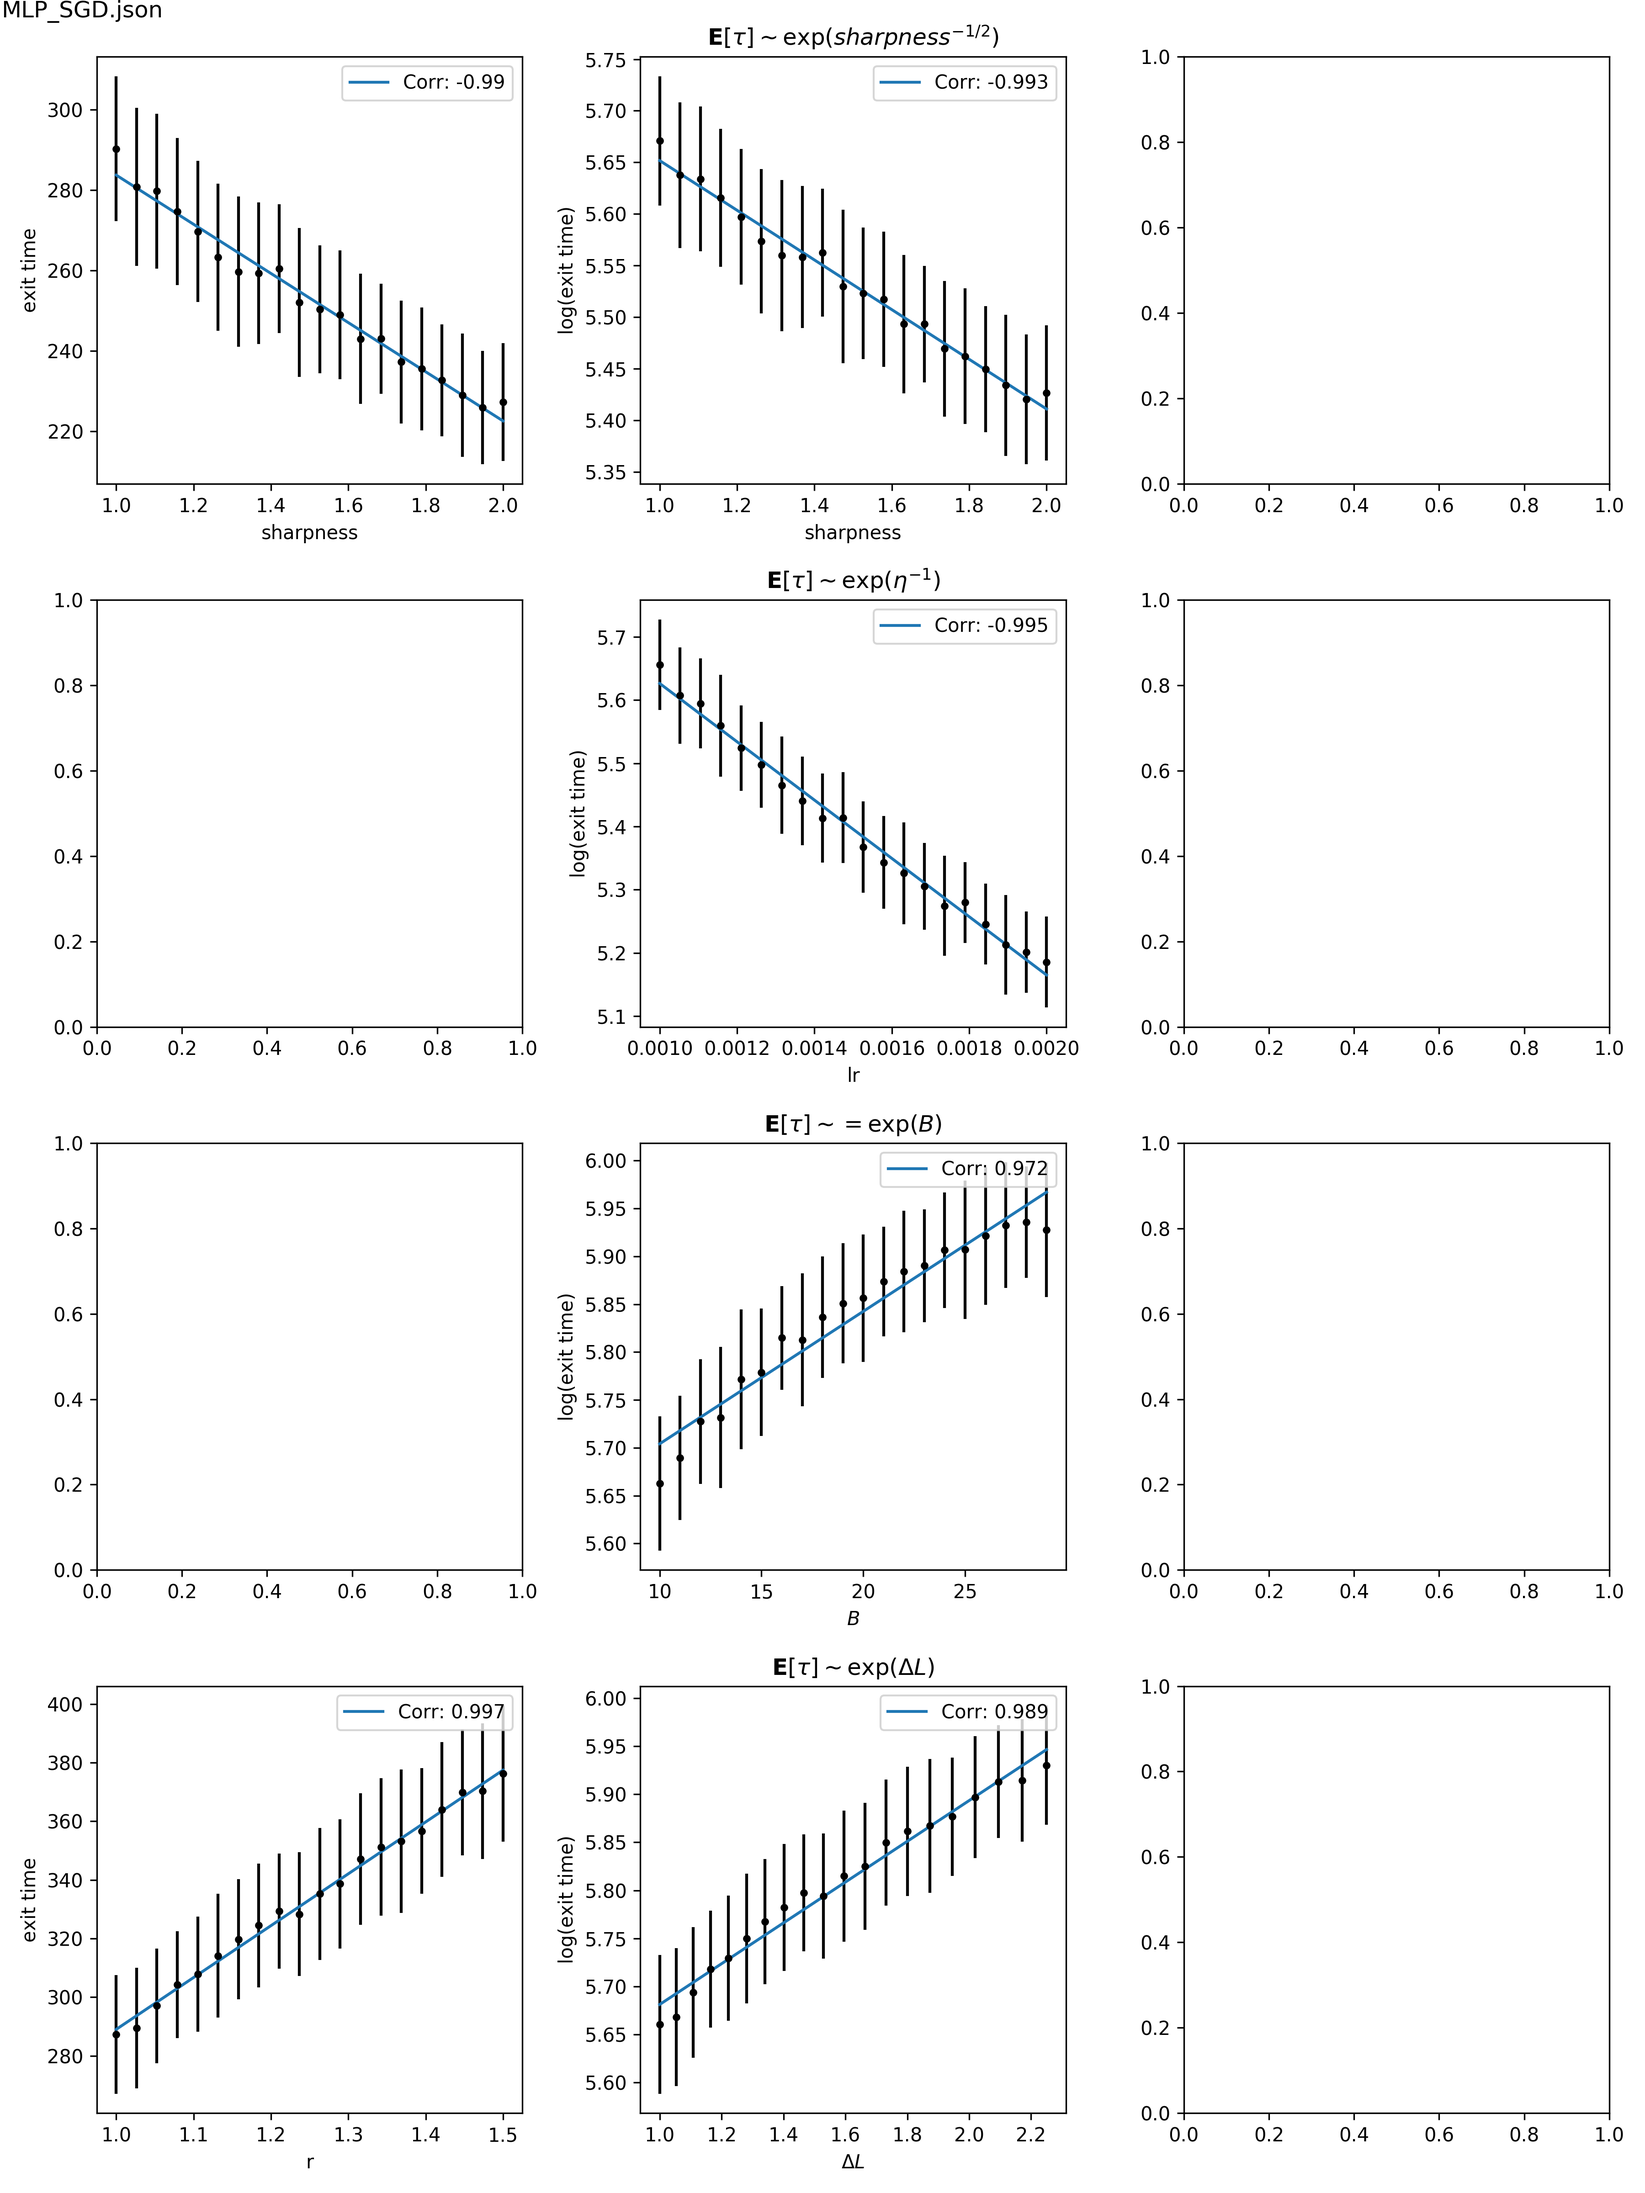
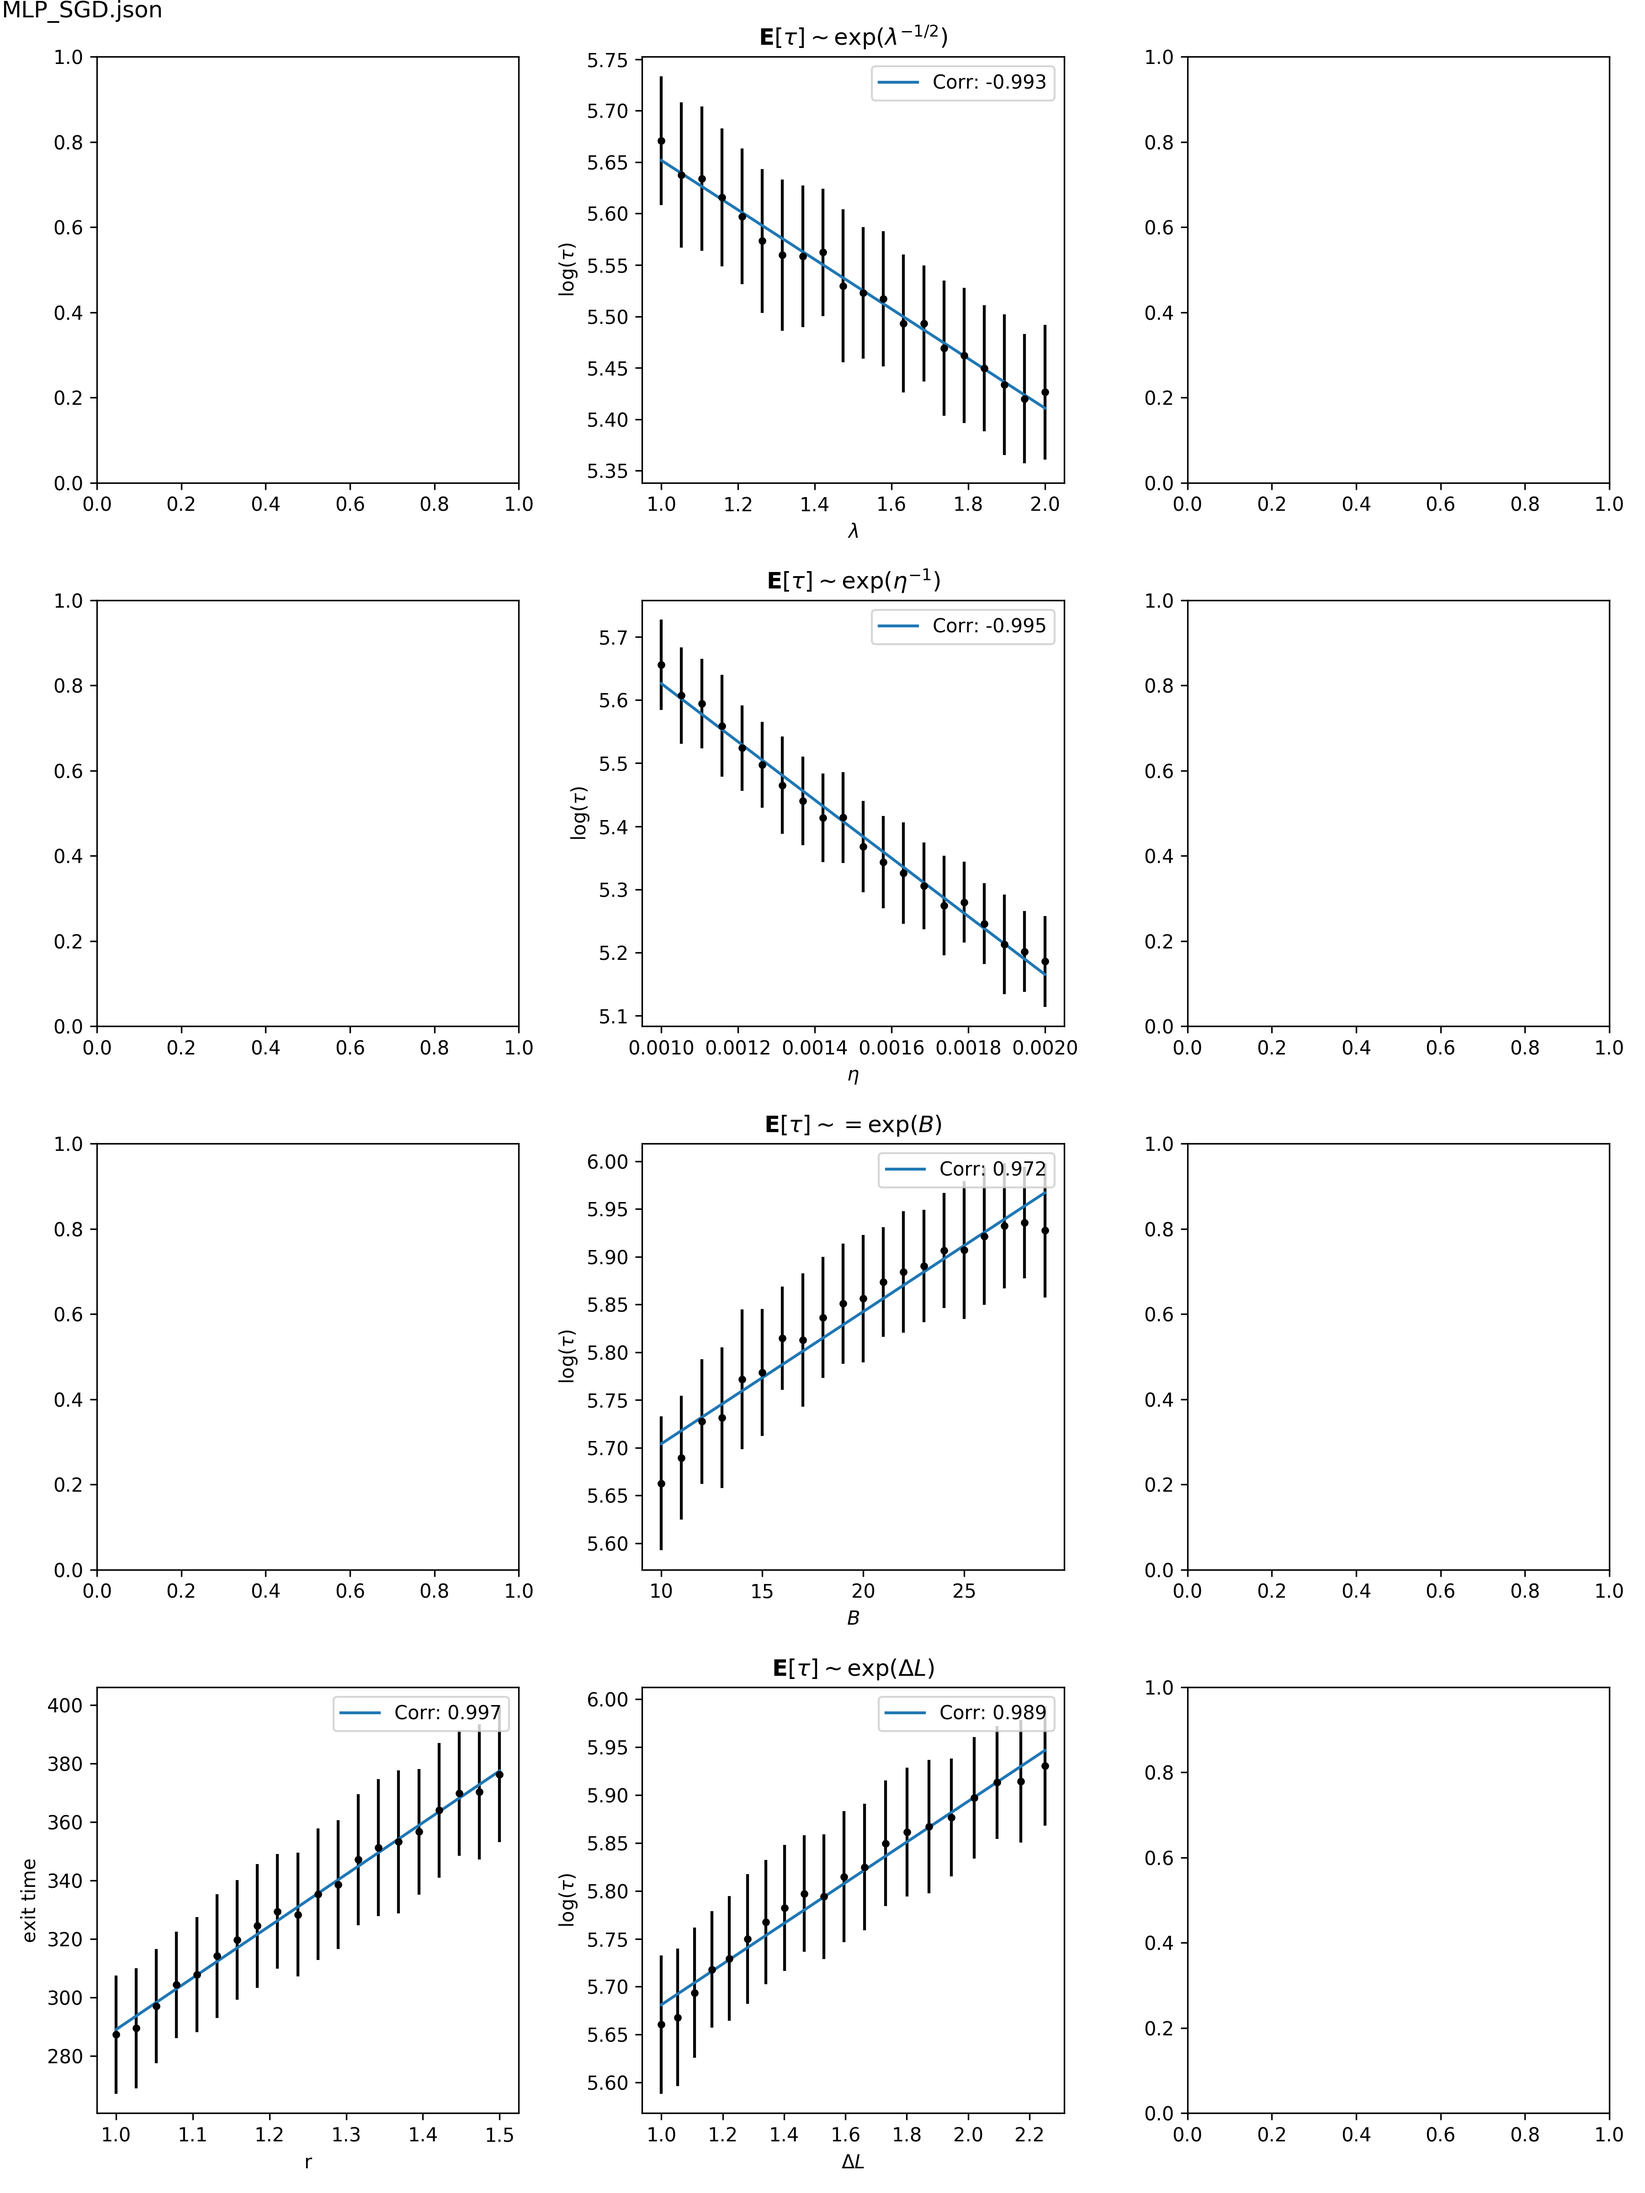
update

diff --git a/draw.py b/draw.py
@@ -8,16 +8,16 @@ def draw(config_fn, sharpness_results, lr_results, batch_size_results, r_results
     # Sharpness 
     (x, y, std, log_std, _) = sharpness_results
     y += 0.00001
-    coeff, _ = stats.pearsonr(x, y)
-    A = np.vstack([x, np.ones(len(x))]).T
-    m, c = np.linalg.lstsq(A, y, rcond=None)[0]
-    #
-    ax1[0].set_xlabel("sharpness")
-    ax1[0].set_ylabel("exit time")
-    ax1[0].errorbar(x, y, yerr=std, fmt='.k') 
-    ax1[0].plot(x, m*x + c) 
-    # ax1[0].set_ylim(bottom=0, top=None)
-    ax1[0].legend([f'Corr: {coeff:.3g}'])
+    # coeff, _ = stats.pearsonr(x, y)
+    # A = np.vstack([x, np.ones(len(x))]).T
+    # m, c = np.linalg.lstsq(A, y, rcond=None)[0]
+    # #
+    # ax1[0].set_xlabel("sharpness")
+    # ax1[0].set_ylabel("exit time")
+    # ax1[0].errorbar(x, y, yerr=std, fmt='.k') 
+    # ax1[0].plot(x, m*x + c) 
+    # # ax1[0].set_ylim(bottom=0, top=None)
+    # ax1[0].legend([f'Corr: {coeff:.3g}'])
     # Log
     #
     x_2 = x
@@ -25,13 +25,12 @@ def draw(config_fn, sharpness_results, lr_results, batch_size_results, r_results
     coeff_2, _ = stats.pearsonr(x_2, y_2)
     A = np.vstack([x_2, np.ones(len(x_2))]).T
     m_2, c_2 = np.linalg.lstsq(A, y_2, rcond=None)[0]
-    ax1[1].set_xlabel("sharpness")
-    ax1[1].set_ylabel("log(exit time)")
+    ax1[1].set_xlabel("$\lambda$")
+    ax1[1].set_ylabel("$\log(\\tau)$")
     ax1[1].errorbar(x_2, y_2, yerr=log_std, fmt='.k') 
     ax1[1].plot(x_2, m_2*x_2 + c_2)
-    # ax1[1].set_ylim(bottom=0, top=None)
     ax1[1].legend([f'Corr: {coeff_2:.3g}'])
-    ax1[1].set_title('$\mathbf{E}[\\tau]\sim \exp(sharpness^{-1/2})$')
+    ax1[1].set_title('$\mathbf{E}[\\tau]\sim \exp(\lambda^{-1/2})$')
     ###
     # Learning rate
     (x, y, std, log_std, _) = lr_results
@@ -40,8 +39,8 @@ def draw(config_fn, sharpness_results, lr_results, batch_size_results, r_results
     coeff_2, _ = stats.pearsonr(x_2, y_2)
     A = np.vstack([x_2, np.ones(len(x))]).T
     m_2, c_2 = np.linalg.lstsq(A, y_2, rcond=None)[0]
-    ax2[1].set_xlabel("lr")
-    ax2[1].set_ylabel("log(exit time)")
+    ax2[1].set_xlabel("$\eta$")
+    ax2[1].set_ylabel("$\log(\\tau)$")
     ax2[1].errorbar(x_2, y_2, yerr=log_std, fmt='.k') 
     ax2[1].plot(x_2, m_2*x_2 + c_2)
     # ax2[1].set_ylim(bottom=0, top=None)
@@ -67,7 +66,7 @@ def draw(config_fn, sharpness_results, lr_results, batch_size_results, r_results
     A = np.vstack([x_2, np.ones(len(x))]).T
     m_2, c_2 = np.linalg.lstsq(A, y_2, rcond=None)[0]
     ax3[1].set_xlabel("$B$")
-    ax3[1].set_ylabel("log(exit time)")
+    ax3[1].set_ylabel("$\log(\\tau)$")
     ax3[1].errorbar(x_2, y_2, yerr=log_std, fmt='.k') 
     ax3[1].plot(x_2, m_2*x_2 + c_2)
     # ax3[1].set_ylim(bottom=0, top=None)
@@ -93,7 +92,7 @@ def draw(config_fn, sharpness_results, lr_results, batch_size_results, r_results
     A = np.vstack([x_2, np.ones(len(x))]).T
     m_2, c_2 = np.linalg.lstsq(A, y_2, rcond=None)[0]
     ax4[1].set_xlabel("$\Delta L$")
-    ax4[1].set_ylabel("log(exit time)")
+    ax4[1].set_ylabel("$\log(\\tau)$")
     ax4[1].errorbar(x_2, y_2, yerr=log_std, fmt='.k') 
     ax4[1].plot(x_2, m_2*x_2 + c_2)
     # ax4[1].set_ylim(bottom=0, top=None)
